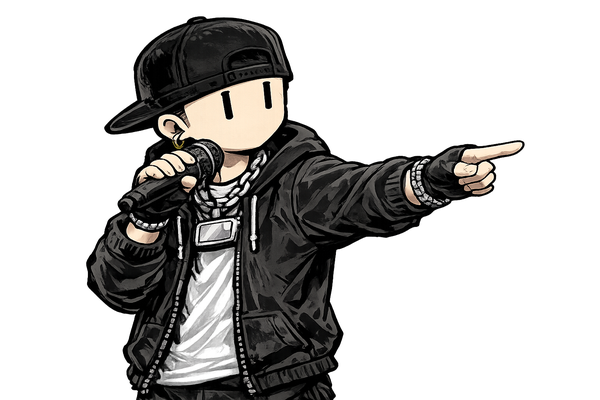
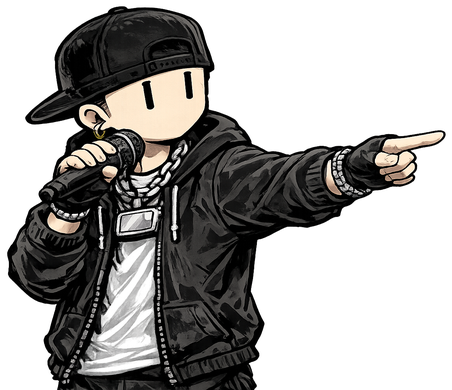
fix: trim image whitespace, unique slogans, better bubble styling
- Crop whitespace from mascot action images for proper centering
- Different slogans: Kiso "Let me break this down." / Sui "Allow me to illustrate!"
- Remove role text, keep name only
- Refined speech bubble with italic quotes, no border
- Larger character image (300px)

Made-with: Cursor

diff --git a/src/components/Publications.tsx b/src/components/Publications.tsx
@@ -33,8 +33,8 @@ function renderMarkdown(text: string) {
 }
 
 const mascots = [
-  { image: "/images/hiphop_action.png", name: "Kiso", role: "RIGOROUS CODER", color: "#06b6d4" },
-  { image: "/images/painter_action.png", name: "Sui", role: "IMAGINATIVE ARTIST", color: "#a855f7" },
+  { image: "/images/hiphop_action.png", name: "Kiso", color: "#06b6d4", slogan: "Let me break this down." },
+  { image: "/images/painter_action.png", name: "Sui", color: "#a855f7", slogan: "Allow me to illustrate!" },
 ];
 
 const statusColors: Record<string, { text: string; bg: string }> = {
@@ -107,54 +107,44 @@ export default function Publications() {
                           initial={{ opacity: 0, scale: 0.9 }}
                           animate={{ opacity: 1, scale: 1 }}
                           transition={{ duration: 0.35, delay: 0.2 }}
-                          className="hidden md:flex flex-1 flex-col items-center justify-center relative py-4"
+                          className="hidden md:flex flex-1 flex-col items-center justify-center relative py-3"
                         >
-                          {/* glow */}
                           <div
                             className="absolute inset-0 rounded-xl"
-                            style={{
-                              background: `radial-gradient(ellipse at center, ${m.color}12 0%, transparent 70%)`,
-                            }}
+                            style={{ background: `radial-gradient(ellipse at center, ${m.color}10 0%, transparent 70%)` }}
                           />
                           {/* speech bubble */}
-                          <div
-                            className="relative mb-2 px-3 py-1.5 rounded-full text-[11px] font-mono"
-                            style={{
-                              background: `${m.color}18`,
-                              color: m.color,
-                              border: `1px solid ${m.color}30`,
-                            }}
-                          >
-                            Let me walk you through this!
+                          <div className="relative mb-1 z-10">
                             <div
-                              className="absolute left-1/2 -translate-x-1/2 -bottom-1 w-2 h-2 rotate-45"
-                              style={{ background: `${m.color}18`, borderRight: `1px solid ${m.color}30`, borderBottom: `1px solid ${m.color}30` }}
+                              className="px-3 py-1.5 rounded-2xl text-[11px] italic"
+                              style={{ background: `${m.color}15`, color: m.color }}
+                            >
+                              &ldquo;{m.slogan}&rdquo;
+                            </div>
+                            <div
+                              className="absolute left-1/2 -translate-x-1/2 -bottom-[5px] w-[10px] h-[10px] rotate-45"
+                              style={{ background: `${m.color}15` }}
                             />
                           </div>
                           {/* character */}
                           <motion.div
                             animate={{ y: [0, -6, 0] }}
                             transition={{ duration: 3.5, repeat: Infinity, ease: "easeInOut" }}
+                            className="relative z-0"
                           >
                             <Image
                               src={m.image}
                               alt={m.name}
-                              width={260}
-                              height={173}
+                              width={300}
+                              height={260}
                               className="select-none pointer-events-none"
-                              style={{ maxWidth: "85%" }}
                               unoptimized
                             />
                           </motion.div>
-                          {/* name tag */}
-                          <div className="mt-2 text-center">
-                            <span className="text-[12px] font-bold font-mono" style={{ color: m.color }}>
-                              {m.name}
-                            </span>
-                            <span className="text-[9px] font-mono ml-1.5 opacity-50" style={{ color: "var(--muted)" }}>
-                              {m.role}
-                            </span>
-                          </div>
+                          {/* name */}
+                          <span className="text-[12px] font-semibold mt-1" style={{ color: m.color }}>
+                            — {m.name}
+                          </span>
                         </motion.div>
                       );
                     })()}
